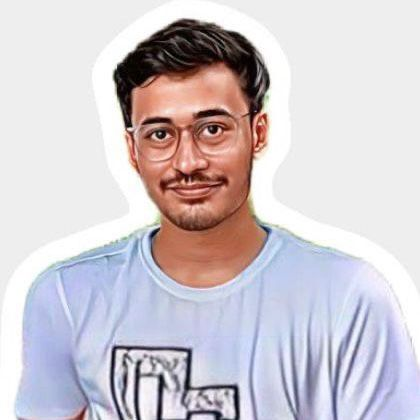
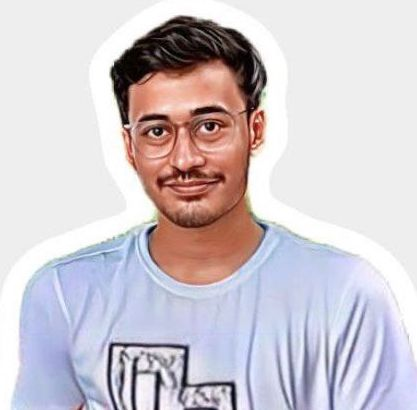
added new photo

diff --git a/components/People.tsx b/components/People.tsx
@@ -52,20 +52,21 @@ export default function People() {
                     </div>
                     <div className="flex flex-col items-center justify-center h-30 rounded-full">
                         <div className="cursor-pointer">
-                        <Image src={'/tanusshree.jpeg'} alt="bgmi" width={200} height={40} className="border rounded-full"/>
-                        <div className="text-lg text-white flex justify-center mt-14 font-bold md:text-2xl">Tanushree Khan</div>
+                        <Image src={'/tanusshree.jpeg'} alt="bgmi" width={200} height={30} className="border rounded-full"/>
+                        <div className="text-lg text-white flex justify-center mt-7 font-bold md:text-2xl">Tanushree</div>
+                        <div className="text-lg text-white flex justify-center font-bold md:text-2xl">Khan</div>
                         </div>
                     </div>
                         
                     <div className="flex flex-col items-center justify-center h-30 rounded-full">
                         <div className="cursor-pointer">
-                            <Image src={'/debosmita.jpeg'} alt="bgmi" width={200} height={40} className="border md:h-52 rounded-full"/>
+                            <Image src={'/debosmita.jpeg'} alt="bgmi" width={200} height={30} className="border md:h-52 rounded-full"/>
                             <div className="text-lg text-white flex justify-center mt-14 font-bold md:text-2xl">Debosmita Das</div>
                         </div>
                     </div>
                     <div className="flex flex-col items-center justify-center h-30 rounded-full">
                         <div className="cursor-pointer">
-                            <Image src={'/arnab_saha.jpeg'} alt="bgmi" width={200} height={40} className="border md:h-52 rounded-full"/>
+                            <Image src={'/arnab_saha.jpeg'} alt="bgmi" width={200} height={30} className="border md:h-52 rounded-full"/>
                             <div className="text-lg text-white flex justify-center mt-14 font-bold md:text-2xl">Arpan Saha</div>
                         </div>
                     </div>
